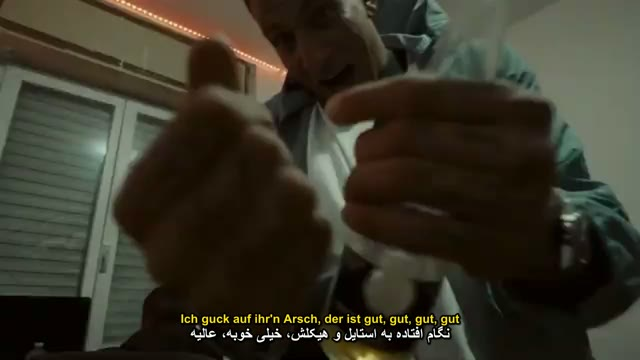
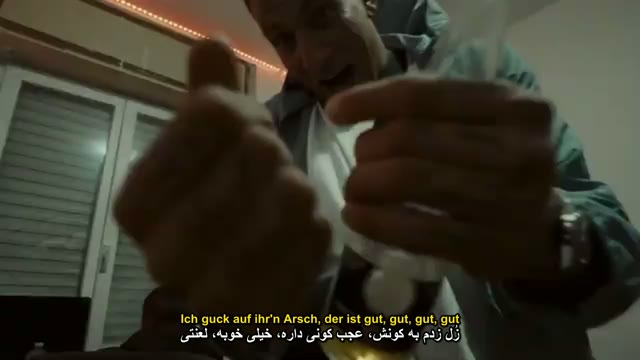
feat(ui): full Obsidian Cinema v3 redesign with real video posters and full-bleed mobile theater
- Replace old navy/yellow boxy template with Obsidian Cinema 2-column desktop/TV split layout
- Extract and ship real 16:9 poster thumbnails for all 9 subtitled music videos
- Implement Poster-First click-to-play stage + edge-to-edge full-bleed mobile viewport (>=224px height)
- Add live search, language filter pills (All/DE/EN), Prev/Next controls, tabbed lyrics/guide, and Smart TV keyboard shortcuts

Changed region(s): [[0.2812, 0.8861, 0.7188, 0.9778]]

diff --git a/index.html b/index.html
@@ -1122,7 +1122,7 @@
   <div class="toast" id="toast" role="status" aria-live="polite"></div>
 
 <script>
-const TRACKS = [{"slug": "kapuze_im_club_allstar", "title": "Kapuze im Club (All-Star Remix) — GZUZ, RAF Camora, Haftbefehl, Bonez MC, Kontra K, LX, Olexesh, SA4", "short": "Kapuze im Club (All-Star Remix)", "artist": "GZUZ, RAF Camora, Haftbefehl, Bonez MC, Kontra K, LX, Olexesh, SA4", "trackName": "Kapuze im Club (All-Star Remix)", "lang": "de", "langLabel": "آلمانی / فارسی", "genre": "رپ آلمانی • آلاستار ریمیکس", "dur": "08:07", "mb": "133.0", "poster": "posters/kapuze_im_club_allstar.jpg", "id": "1FfqtGEDwZ4IG9Jyq-I_DYPuAHraj_TX_", "preview": "https://drive.google.com/file/d/1FfqtGEDwZ4IG9Jyq-I_DYPuAHraj_TX_/preview", "view": "https://drive.google.com/file/d/1FfqtGEDwZ4IG9Jyq-I_DYPuAHraj_TX_/view?usp=drivesdk", "download": "https://drive.google.com/uc?export=download&id=1FfqtGEDwZ4IG9Jyq-I_DYPuAHraj_TX_", "lyrics": [{"orig": "Trag Kapuze im Club, Club, Club, Club, Club", "fa": "با کلاهِ هودی روی سر میام تو کلاب، کلاب، کلاب"}, {"orig": "Brüder tragen Waffen und Schmuck mit Kapuze im Club", "fa": "برادرام اسلحه و جواهر دارن و با هودی تو کلابن"}, {"orig": "Ein, zwei Jungs machen lange keine Gang", "fa": "با یکی دو تا بچه که آدم صاحبِ باند و گنگ نمیشه"}, {"orig": "Heute kann uns niemand halten, nicht mal Panzertüren", "fa": "امروز دیگه هیچکس جلودارمون نیست، حتی درهای ضدگلوله"}, {"orig": "Das ist Gang, das ist Familie, das ist größer als du denkst", "fa": "این فقط باند نیست، خانوادهست، خیلی بزرگتر از اونیه که فکرشو کنی"}]}, {"slug": "gzuz_xxl_mix_1_stunde", "title": "GZUZ XXL Mix (1 Stunde) — feat. Kolja Goldstein, Lacazette", "short": "GZUZ XXL Mix 1 Stunde", "artist": "GZUZ, Kolja Goldstein, Lacazette", "trackName": "XXL Mix (1 Stunde)", "lang": "de", "langLabel": "آلمانی / فارسی", "genre": "رپ آلمانی • میکس ویژه", "dur": "50:46", "mb": "707.9", "poster": "posters/gzuz_xxl_mix_1_stunde.jpg", "id": "1c7GHJbW68tEy1nkpri-nma8rogoQ1A4x", "preview": "https://drive.google.com/file/d/1c7GHJbW68tEy1nkpri-nma8rogoQ1A4x/preview", "view": "https://drive.google.com/file/d/1c7GHJbW68tEy1nkpri-nma8rogoQ1A4x/view?usp=drivesdk", "download": "https://drive.google.com/uc?export=download&id=1c7GHJbW68tEy1nkpri-nma8rogoQ1A4x", "lyrics": [{"orig": "Alles geht um Dollars, geht um Tonn'n", "fa": "همهچی سرِ دلاره، سرِ تنها باره"}, {"orig": "Eine Mio auf dem Konto, ich will zehn", "fa": "یه میلیون تو حسابمه، ولی من ده تا میخوام"}, {"orig": "Niemals 31er, für immer 187, ja", "fa": "هیچوقت خبرچین نمیشم، تا ابد صدوهشتادوهفت، آره"}, {"orig": "Para machen meine Expertise, meine Freunde sind sehr stabile", "fa": "پول درآوردن تخصص منه، رفیقام خیلی محکم و پای کارن"}, {"orig": "Und wenn du nichts zahlst, find' ich dich an der Konsti", "fa": "و اگه پولشو ندی، تو ایستگاهِ کنستی پیدات میکنم"}]}, {"slug": "wiz_khalifa_-_midnight_smoke", "title": "Wiz Khalifa — Midnight Smoke", "short": "Wiz Khalifa - Midnight Smoke", "artist": "Wiz Khalifa", "trackName": "Midnight Smoke", "lang": "en", "langLabel": "انگلیسی / فارسی", "genre": "هیپهاپ • شبانه", "dur": "07:33", "mb": "67.1", "poster": "posters/wiz_khalifa_-_midnight_smoke.jpg", "id": "1d-ND0SNHriWM_AHNNvxWsuBxSdq59uHp", "preview": "https://drive.google.com/file/d/1d-ND0SNHriWM_AHNNvxWsuBxSdq59uHp/preview", "view": "https://drive.google.com/file/d/1d-ND0SNHriWM_AHNNvxWsuBxSdq59uHp/view?usp=drivesdk", "download": "https://drive.google.com/uc?export=download&id=1d-ND0SNHriWM_AHNNvxWsuBxSdq59uHp", "lyrics": [{"orig": "Midnight smoke, windows down, we float", "fa": "دودِ نیمهشب، شیشهها پایینه، انگار رو هوا شناوریم"}, {"orig": "Stars overhead while we ride through the coast", "fa": "ستارهها بالای سرمونن وقتی کنار ساحل میرونیم"}, {"orig": "Money on the mind, let the soul stay gold", "fa": "فکر و ذکرمون پوله، ولی بذار روحمون طلایی و ناب بمونه"}, {"orig": "Every setback was a disguise, now we rise", "fa": "هر عقبگرد یه نقابِ پنهان برای جهش بود، حالا اوج میگیریم"}]}, {"slug": "quavo_ft_young_thug_-_slide", "title": "Quavo ft. Young Thug — Slide (Extended)", "short": "Quavo ft. Young Thug - Slide", "artist": "Quavo ft. Young Thug", "trackName": "Slide (Extended)", "lang": "en", "langLabel": "انگلیسی / فارسی", "genre": "ترپ • کلاب", "dur": "07:00", "mb": "90.0", "poster": "posters/quavo_ft_young_thug_-_slide.jpg", "id": "1Ld89jrkeWaChbFAgR1r3XvoUHTEqN-uw", "preview": "https://drive.google.com/file/d/1Ld89jrkeWaChbFAgR1r3XvoUHTEqN-uw/preview", "view": "https://drive.google.com/file/d/1Ld89jrkeWaChbFAgR1r3XvoUHTEqN-uw/view?usp=drivesdk", "download": "https://drive.google.com/uc?export=download&id=1Ld89jrkeWaChbFAgR1r3XvoUHTEqN-uw", "lyrics": [{"orig": "We just pulled up on the side, watch 'em slide", "fa": "یهو کنار خیابون پیچیدیم وایسادیم، ببین چطور لیز میخورن و درمیرن"}, {"orig": "Got them demons in the coupe, takin' flight", "fa": "شیطونها تو ماشینِ کوپه نشستن و دارن پرواز میکنن"}, {"orig": "Green slime drippin' on the carpet", "fa": "اسلایم سبزِ وایاسال داره روی فرش چکه میکنه"}, {"orig": "We the biggest bosses in the market", "fa": "ما گندهترین رئیسهای این بازاریم"}]}, {"slug": "quavo_x_future_-_i_smell_like_money", "title": "Quavo x Future — I Smell Like Money", "short": "Quavo x Future - I Smell Like Money", "artist": "Quavo x Future", "trackName": "I Smell Like Money", "lang": "en", "langLabel": "انگلیسی / فارسی", "genre": "ترپ • آتلانتا", "dur": "09:58", "mb": "92.2", "poster": "posters/quavo_x_future_-_i_smell_like_money.jpg", "id": "1sDJFNJEgQEWl1KaC8875Mu-LdJ5wiT9F", "preview": "https://drive.google.com/file/d/1sDJFNJEgQEWl1KaC8875Mu-LdJ5wiT9F/preview", "view": "https://drive.google.com/file/d/1sDJFNJEgQEWl1KaC8875Mu-LdJ5wiT9F/view?usp=drivesdk", "download": "https://drive.google.com/uc?export=download&id=1sDJFNJEgQEWl1KaC8875Mu-LdJ5wiT9F", "lyrics": [{"orig": "I smell like money everywhere I go", "fa": "هر جا پا میذارم بوی پول و اسکناس میدم"}, {"orig": "Diamonds dancin' on my neck in the dark", "fa": "الماسهای دور گردنم تو دل تاریکی میرقصن"}]}, {"slug": "doja_cat_-_streets", "title": "Doja Cat — Streets (Official Video)", "short": "Doja Cat - Streets", "artist": "Doja Cat", "trackName": "Streets (Official Video)", "lang": "en", "langLabel": "انگلیسی / فارسی", "genre": "آراندبی • سینمایی", "dur": "04:34", "mb": "61.4", "poster": "posters/doja_cat_-_streets.jpg", "id": "1GkD4OlDSbStNA_J7pM-c6XOY-LnvHR-x", "preview": "https://drive.google.com/file/d/1GkD4OlDSbStNA_J7pM-c6XOY-LnvHR-x/preview", "view": "https://drive.google.com/file/d/1GkD4OlDSbStNA_J7pM-c6XOY-LnvHR-x/view?usp=drivesdk", "download": "https://drive.google.com/uc?export=download&id=1GkD4OlDSbStNA_J7pM-c6XOY-LnvHR-x", "lyrics": [{"orig": "I found it hard to find someone like you", "fa": "برام خیلی سخت بود یکی مثل تو رو پیدا کنم"}, {"orig": "I can't sleep no more, in my head, we belong", "fa": "دیگه خوابم نمیبره، توی ذهنم ما مالِ همیم"}, {"orig": "Damn papa, you a rare breed, no comparin'", "fa": "لعنتی پسر، تو از یه نسلِ نایابی، اصلاً قابل مقایسه نیستی"}, {"orig": "When other chickens tryna get in my coop", "fa": "وقتی بقیه میخوان بیان تو لونه و حریمِ من"}]}, {"slug": "lady_xo_-_okay", "title": "Lady XO — Okay", "short": "Lady XO - Okay", "artist": "Lady XO", "trackName": "Okay", "lang": "en", "langLabel": "انگلیسی / فارسی", "genre": "هیپهاپ • احساسی", "dur": "04:20", "mb": "34.3", "poster": "posters/lady_xo_-_okay.jpg", "id": "17d3P-tIferqdIr70lrqBjdMX5JMrv7xY", "preview": "https://drive.google.com/file/d/17d3P-tIferqdIr70lrqBjdMX5JMrv7xY/preview", "view": "https://drive.google.com/file/d/17d3P-tIferqdIr70lrqBjdMX5JMrv7xY/view?usp=drivesdk", "download": "https://drive.google.com/uc?export=download&id=17d3P-tIferqdIr70lrqBjdMX5JMrv7xY", "lyrics": [{"orig": "Got it out the mud so deep, that's why I always play for keeps", "fa": "از دلِ گلولای کشیدمش بیرون، واسه همینه تا تهش پایبندم"}, {"orig": "Yeah, I'm okay, I don't need you because I'm okay", "fa": "آره، من حالم خوبه، نیازی بهت ندارم چون خودکفام و اوکیام"}, {"orig": "I'm a diamond in the rough", "fa": "من یه الماسِ نایاب تو دل خاکم"}]}, {"slug": "lady_xo_-_rose_gold", "title": "Lady XO — ROSE GOLD", "short": "Lady XO - ROSE GOLD", "artist": "Lady XO", "trackName": "ROSE GOLD", "lang": "en", "langLabel": "انگلیسی / فارسی", "genre": "آراندبی • ملودیک", "dur": "02:54", "mb": "67.5", "poster": "posters/lady_xo_-_rose_gold.jpg", "id": "1erUARRhqktIYHAHGqkXWL1S4cBU8YVhT", "preview": "https://drive.google.com/file/d/1erUARRhqktIYHAHGqkXWL1S4cBU8YVhT/preview", "view": "https://drive.google.com/file/d/1erUARRhqktIYHAHGqkXWL1S4cBU8YVhT/view?usp=drivesdk", "download": "https://drive.google.com/uc?export=download&id=1erUARRhqktIYHAHGqkXWL1S4cBU8YVhT", "lyrics": [{"orig": "Rose gold shine through the late night rain", "fa": "درخششِ رزگلد زیر بارونِ آخر شب"}, {"orig": "Came from nothing, now they know the name", "fa": "از هیچ شروع کردیم، حالا همه اسممون رو بلدن"}]}, {"slug": "sa4_-_hafencity", "title": "SA4 — HafenCity (187 Strassenbande)", "short": "SA4 - HafenCity", "artist": "SA4 (187 Strassenbande)", "trackName": "HafenCity", "lang": "de", "langLabel": "آلمانی / فارسی", "genre": "رپ آلمانی • هامبورگ", "dur": "01:56", "mb": "46.0", "poster": "posters/sa4_-_hafencity.jpg", "id": "1xiINyLr_1nX_JjsfY6gS6jxEQOYlTu8n", "preview": "https://drive.google.com/file/d/1xiINyLr_1nX_JjsfY6gS6jxEQOYlTu8n/preview", "view": "https://drive.google.com/file/d/1xiINyLr_1nX_JjsfY6gS6jxEQOYlTu8n/view?usp=drivesdk", "download": "https://drive.google.com/uc?export=download&id=1xiINyLr_1nX_JjsfY6gS6jxEQOYlTu8n", "lyrics": [{"orig": "HafenCity, 187 Strassenbande", "fa": "هافنسیتی، باندِ خیابانیِ صدوهشتادوهفت"}, {"orig": "Zwischen Containern und Luxus-Karren in Hamburg", "fa": "بین کانتینرها و ماشینهای لوکس تو هامبورگ"}]}, {"slug": "klangspiel_x_anna_grey_-_dein_lied", "title": "KLANGSPIEL x Anna Grey — Dein Lied", "short": "KLANGSPIEL x Anna Grey - Dein Lied", "artist": "KLANGSPIEL x Anna Grey", "trackName": "Dein Lied", "lang": "de", "langLabel": "آلمانی / فارسی", "genre": "پاپ الکترونیک آلمانی", "dur": "02:08", "mb": "33.9", "poster": "posters/klangspiel_x_anna_grey_-_dein_lied.jpg", "id": "1o07aIT3FAL_nbb7qnADrNz5uZHnhSono", "preview": "https://drive.google.com/file/d/1o07aIT3FAL_nbb7qnADrNz5uZHnhSono/preview", "view": "https://drive.google.com/file/d/1o07aIT3FAL_nbb7qnADrNz5uZHnhSono/view?usp=drivesdk", "download": "https://drive.google.com/uc?export=download&id=1o07aIT3FAL_nbb7qnADrNz5uZHnhSono", "lyrics": [{"orig": "Und wenn die Nacht uns trägt, hörst du dein Lied", "fa": "و وقتی شب ما رو با خودش میبره، آهنگِ خودتو میشنوی"}, {"orig": "Lichter der Stadt leuchten nur für uns zwei", "fa": "چراغهای شهر فقط برای ما دو نفر روشنن"}]}];
+const TRACKS = [{"slug": "kapuze_im_club_allstar", "title": "Kapuze im Club (All-Star Remix) — GZUZ, RAF Camora, Haftbefehl, Bonez MC, Kontra K, LX, Olexesh, SA4", "short": "Kapuze im Club (All-Star Remix)", "artist": "GZUZ, RAF Camora, Haftbefehl, Bonez MC, Kontra K, LX, Olexesh, SA4", "trackName": "Kapuze im Club (All-Star Remix)", "lang": "de", "langLabel": "آلمانی / فارسی", "genre": "رپ آلمانی • آلاستار ریمیکس", "dur": "08:07", "mb": "133.1", "poster": "posters/kapuze_im_club_allstar.jpg", "id": "1Za-zL2wHPDzDVsD2qNLXdfW3h7djL2XH", "preview": "https://drive.google.com/file/d/1Za-zL2wHPDzDVsD2qNLXdfW3h7djL2XH/preview", "view": "https://drive.google.com/file/d/1Za-zL2wHPDzDVsD2qNLXdfW3h7djL2XH/view?usp=drivesdk", "download": "https://drive.google.com/uc?export=download&id=1Za-zL2wHPDzDVsD2qNLXdfW3h7djL2XH", "lyrics": [{"orig": "Trag Kapuze im Club, Club, Club, Club, Club", "fa": "با کلاهِ هودی روی سر میام تو کلاب، کلاب، کلاب"}, {"orig": "Ich guck auf ihr'n Arsch, der ist gut, gut, gut, gut", "fa": "زُل زدم به کونش، عجب کونی داره، خیلی خوبه، لعنتی"}, {"orig": "Koka-Lines, Fick auf Synapsen, matt im Kopf, ab in die Klapse", "fa": "خطهای کوکائین، گاییدم مغز و اعصابو، کلهات میگوزه و سرت از تیمارستان درمیاد"}, {"orig": "Du kleiner Hurensohn, ich hab die Straße studiert", "fa": "حرومزادهی جندهزاده، من کفِ خیابون رو مثل دانشگاه درس پس دادم"}, {"orig": "Gibt es Stress, holen wir Knüppel und wir ficken euch schwer", "fa": "دردسر پیش بیاد، با چماق میایم و بدجور میگاییمتون"}]}, {"slug": "gzuz_xxl_mix_1_stunde", "title": "GZUZ XXL Mix (1 Stunde) — feat. Kolja Goldstein, Lacazette", "short": "GZUZ XXL Mix 1 Stunde", "artist": "GZUZ, Kolja Goldstein, Lacazette", "trackName": "XXL Mix (1 Stunde)", "lang": "de", "langLabel": "آلمانی / فارسی", "genre": "رپ آلمانی • میکس ویژه", "dur": "50:46", "mb": "707.9", "poster": "posters/gzuz_xxl_mix_1_stunde.jpg", "id": "1c7GHJbW68tEy1nkpri-nma8rogoQ1A4x", "preview": "https://drive.google.com/file/d/1c7GHJbW68tEy1nkpri-nma8rogoQ1A4x/preview", "view": "https://drive.google.com/file/d/1c7GHJbW68tEy1nkpri-nma8rogoQ1A4x/view?usp=drivesdk", "download": "https://drive.google.com/uc?export=download&id=1c7GHJbW68tEy1nkpri-nma8rogoQ1A4x", "lyrics": [{"orig": "Alles geht um Dollars, geht um Tonn'n", "fa": "همهچی سرِ دلاره، سرِ تنها باره"}, {"orig": "Eine Mio auf dem Konto, ich will zehn", "fa": "یه میلیون تو حسابمه، ولی من ده تا میخوام"}, {"orig": "Niemals 31er, für immer 187, ja", "fa": "هیچوقت خبرچین نمیشم، تا ابد صدوهشتادوهفت، آره"}, {"orig": "Para machen meine Expertise, meine Freunde sind sehr stabile", "fa": "پول درآوردن تخصص منه، رفیقام خیلی محکم و پای کارن"}, {"orig": "Und wenn du nichts zahlst, find' ich dich an der Konsti", "fa": "و اگه پولشو ندی، تو ایستگاهِ کنستی پیدات میکنم"}]}, {"slug": "wiz_khalifa_-_midnight_smoke", "title": "Wiz Khalifa — Midnight Smoke", "short": "Wiz Khalifa - Midnight Smoke", "artist": "Wiz Khalifa", "trackName": "Midnight Smoke", "lang": "en", "langLabel": "انگلیسی / فارسی", "genre": "هیپهاپ • شبانه", "dur": "07:33", "mb": "67.1", "poster": "posters/wiz_khalifa_-_midnight_smoke.jpg", "id": "1d-ND0SNHriWM_AHNNvxWsuBxSdq59uHp", "preview": "https://drive.google.com/file/d/1d-ND0SNHriWM_AHNNvxWsuBxSdq59uHp/preview", "view": "https://drive.google.com/file/d/1d-ND0SNHriWM_AHNNvxWsuBxSdq59uHp/view?usp=drivesdk", "download": "https://drive.google.com/uc?export=download&id=1d-ND0SNHriWM_AHNNvxWsuBxSdq59uHp", "lyrics": [{"orig": "Midnight smoke, windows down, we float", "fa": "دودِ نیمهشب، شیشهها پایینه، انگار رو هوا شناوریم"}, {"orig": "Stars overhead while we ride through the coast", "fa": "ستارهها بالای سرمونن وقتی کنار ساحل میرونیم"}, {"orig": "Money on the mind, let the soul stay gold", "fa": "فکر و ذکرمون پوله، ولی بذار روحمون طلایی و ناب بمونه"}, {"orig": "Every setback was a disguise, now we rise", "fa": "هر عقبگرد یه نقابِ پنهان برای جهش بود، حالا اوج میگیریم"}]}, {"slug": "quavo_ft_young_thug_-_slide", "title": "Quavo ft. Young Thug — Slide (Extended)", "short": "Quavo ft. Young Thug - Slide", "artist": "Quavo ft. Young Thug", "trackName": "Slide (Extended)", "lang": "en", "langLabel": "انگلیسی / فارسی", "genre": "ترپ • کلاب", "dur": "07:00", "mb": "90.0", "poster": "posters/quavo_ft_young_thug_-_slide.jpg", "id": "1Ld89jrkeWaChbFAgR1r3XvoUHTEqN-uw", "preview": "https://drive.google.com/file/d/1Ld89jrkeWaChbFAgR1r3XvoUHTEqN-uw/preview", "view": "https://drive.google.com/file/d/1Ld89jrkeWaChbFAgR1r3XvoUHTEqN-uw/view?usp=drivesdk", "download": "https://drive.google.com/uc?export=download&id=1Ld89jrkeWaChbFAgR1r3XvoUHTEqN-uw", "lyrics": [{"orig": "We just pulled up on the side, watch 'em slide", "fa": "یهو کنار خیابون پیچیدیم وایسادیم، ببین چطور لیز میخورن و درمیرن"}, {"orig": "Got them demons in the coupe, takin' flight", "fa": "شیطونها تو ماشینِ کوپه نشستن و دارن پرواز میکنن"}, {"orig": "Green slime drippin' on the carpet", "fa": "اسلایم سبزِ وایاسال داره روی فرش چکه میکنه"}, {"orig": "We the biggest bosses in the market", "fa": "ما گندهترین رئیسهای این بازاریم"}]}, {"slug": "quavo_x_future_-_i_smell_like_money", "title": "Quavo x Future — I Smell Like Money", "short": "Quavo x Future - I Smell Like Money", "artist": "Quavo x Future", "trackName": "I Smell Like Money", "lang": "en", "langLabel": "انگلیسی / فارسی", "genre": "ترپ • آتلانتا", "dur": "09:58", "mb": "92.2", "poster": "posters/quavo_x_future_-_i_smell_like_money.jpg", "id": "1sDJFNJEgQEWl1KaC8875Mu-LdJ5wiT9F", "preview": "https://drive.google.com/file/d/1sDJFNJEgQEWl1KaC8875Mu-LdJ5wiT9F/preview", "view": "https://drive.google.com/file/d/1sDJFNJEgQEWl1KaC8875Mu-LdJ5wiT9F/view?usp=drivesdk", "download": "https://drive.google.com/uc?export=download&id=1sDJFNJEgQEWl1KaC8875Mu-LdJ5wiT9F", "lyrics": [{"orig": "I smell like money everywhere I go", "fa": "هر جا پا میذارم بوی پول و اسکناس میدم"}, {"orig": "Diamonds dancin' on my neck in the dark", "fa": "الماسهای دور گردنم تو دل تاریکی میرقصن"}]}, {"slug": "doja_cat_-_streets", "title": "Doja Cat — Streets (Official Video)", "short": "Doja Cat - Streets", "artist": "Doja Cat", "trackName": "Streets (Official Video)", "lang": "en", "langLabel": "انگلیسی / فارسی", "genre": "آراندبی • سینمایی", "dur": "04:34", "mb": "61.4", "poster": "posters/doja_cat_-_streets.jpg", "id": "1GkD4OlDSbStNA_J7pM-c6XOY-LnvHR-x", "preview": "https://drive.google.com/file/d/1GkD4OlDSbStNA_J7pM-c6XOY-LnvHR-x/preview", "view": "https://drive.google.com/file/d/1GkD4OlDSbStNA_J7pM-c6XOY-LnvHR-x/view?usp=drivesdk", "download": "https://drive.google.com/uc?export=download&id=1GkD4OlDSbStNA_J7pM-c6XOY-LnvHR-x", "lyrics": [{"orig": "I found it hard to find someone like you", "fa": "برام خیلی سخت بود یکی مثل تو رو پیدا کنم"}, {"orig": "I can't sleep no more, in my head, we belong", "fa": "دیگه خوابم نمیبره، توی ذهنم ما مالِ همیم"}, {"orig": "Damn papa, you a rare breed, no comparin'", "fa": "لعنتی پسر، تو از یه نسلِ نایابی، اصلاً قابل مقایسه نیستی"}, {"orig": "When other chickens tryna get in my coop", "fa": "وقتی بقیه میخوان بیان تو لونه و حریمِ من"}]}, {"slug": "lady_xo_-_okay", "title": "Lady XO — Okay", "short": "Lady XO - Okay", "artist": "Lady XO", "trackName": "Okay", "lang": "en", "langLabel": "انگلیسی / فارسی", "genre": "هیپهاپ • احساسی", "dur": "04:20", "mb": "34.3", "poster": "posters/lady_xo_-_okay.jpg", "id": "17d3P-tIferqdIr70lrqBjdMX5JMrv7xY", "preview": "https://drive.google.com/file/d/17d3P-tIferqdIr70lrqBjdMX5JMrv7xY/preview", "view": "https://drive.google.com/file/d/17d3P-tIferqdIr70lrqBjdMX5JMrv7xY/view?usp=drivesdk", "download": "https://drive.google.com/uc?export=download&id=17d3P-tIferqdIr70lrqBjdMX5JMrv7xY", "lyrics": [{"orig": "Got it out the mud so deep, that's why I always play for keeps", "fa": "از دلِ گلولای کشیدمش بیرون، واسه همینه تا تهش پایبندم"}, {"orig": "Yeah, I'm okay, I don't need you because I'm okay", "fa": "آره، من حالم خوبه، نیازی بهت ندارم چون خودکفام و اوکیام"}, {"orig": "I'm a diamond in the rough", "fa": "من یه الماسِ نایاب تو دل خاکم"}]}, {"slug": "lady_xo_-_rose_gold", "title": "Lady XO — ROSE GOLD", "short": "Lady XO - ROSE GOLD", "artist": "Lady XO", "trackName": "ROSE GOLD", "lang": "en", "langLabel": "انگلیسی / فارسی", "genre": "آراندبی • ملودیک", "dur": "02:54", "mb": "67.5", "poster": "posters/lady_xo_-_rose_gold.jpg", "id": "1erUARRhqktIYHAHGqkXWL1S4cBU8YVhT", "preview": "https://drive.google.com/file/d/1erUARRhqktIYHAHGqkXWL1S4cBU8YVhT/preview", "view": "https://drive.google.com/file/d/1erUARRhqktIYHAHGqkXWL1S4cBU8YVhT/view?usp=drivesdk", "download": "https://drive.google.com/uc?export=download&id=1erUARRhqktIYHAHGqkXWL1S4cBU8YVhT", "lyrics": [{"orig": "Rose gold shine through the late night rain", "fa": "درخششِ رزگلد زیر بارونِ آخر شب"}, {"orig": "Came from nothing, now they know the name", "fa": "از هیچ شروع کردیم، حالا همه اسممون رو بلدن"}]}, {"slug": "sa4_-_hafencity", "title": "SA4 — HafenCity (187 Strassenbande)", "short": "SA4 - HafenCity", "artist": "SA4 (187 Strassenbande)", "trackName": "HafenCity", "lang": "de", "langLabel": "آلمانی / فارسی", "genre": "رپ آلمانی • هامبورگ", "dur": "01:56", "mb": "46.0", "poster": "posters/sa4_-_hafencity.jpg", "id": "1xiINyLr_1nX_JjsfY6gS6jxEQOYlTu8n", "preview": "https://drive.google.com/file/d/1xiINyLr_1nX_JjsfY6gS6jxEQOYlTu8n/preview", "view": "https://drive.google.com/file/d/1xiINyLr_1nX_JjsfY6gS6jxEQOYlTu8n/view?usp=drivesdk", "download": "https://drive.google.com/uc?export=download&id=1xiINyLr_1nX_JjsfY6gS6jxEQOYlTu8n", "lyrics": [{"orig": "HafenCity, 187 Strassenbande", "fa": "هافنسیتی، باندِ خیابانیِ صدوهشتادوهفت"}, {"orig": "Zwischen Containern und Luxus-Karren in Hamburg", "fa": "بین کانتینرها و ماشینهای لوکس تو هامبورگ"}]}, {"slug": "klangspiel_x_anna_grey_-_dein_lied", "title": "KLANGSPIEL x Anna Grey — Dein Lied", "short": "KLANGSPIEL x Anna Grey - Dein Lied", "artist": "KLANGSPIEL x Anna Grey", "trackName": "Dein Lied", "lang": "de", "langLabel": "آلمانی / فارسی", "genre": "پاپ الکترونیک آلمانی", "dur": "02:08", "mb": "33.9", "poster": "posters/klangspiel_x_anna_grey_-_dein_lied.jpg", "id": "1o07aIT3FAL_nbb7qnADrNz5uZHnhSono", "preview": "https://drive.google.com/file/d/1o07aIT3FAL_nbb7qnADrNz5uZHnhSono/preview", "view": "https://drive.google.com/file/d/1o07aIT3FAL_nbb7qnADrNz5uZHnhSono/view?usp=drivesdk", "download": "https://drive.google.com/uc?export=download&id=1o07aIT3FAL_nbb7qnADrNz5uZHnhSono", "lyrics": [{"orig": "Und wenn die Nacht uns trägt, hörst du dein Lied", "fa": "و وقتی شب ما رو با خودش میبره، آهنگِ خودتو میشنوی"}, {"orig": "Lichter der Stadt leuchten nur für uns zwei", "fa": "چراغهای شهر فقط برای ما دو نفر روشنن"}]}];
 
 const state = {
   activeIdx: 0,
